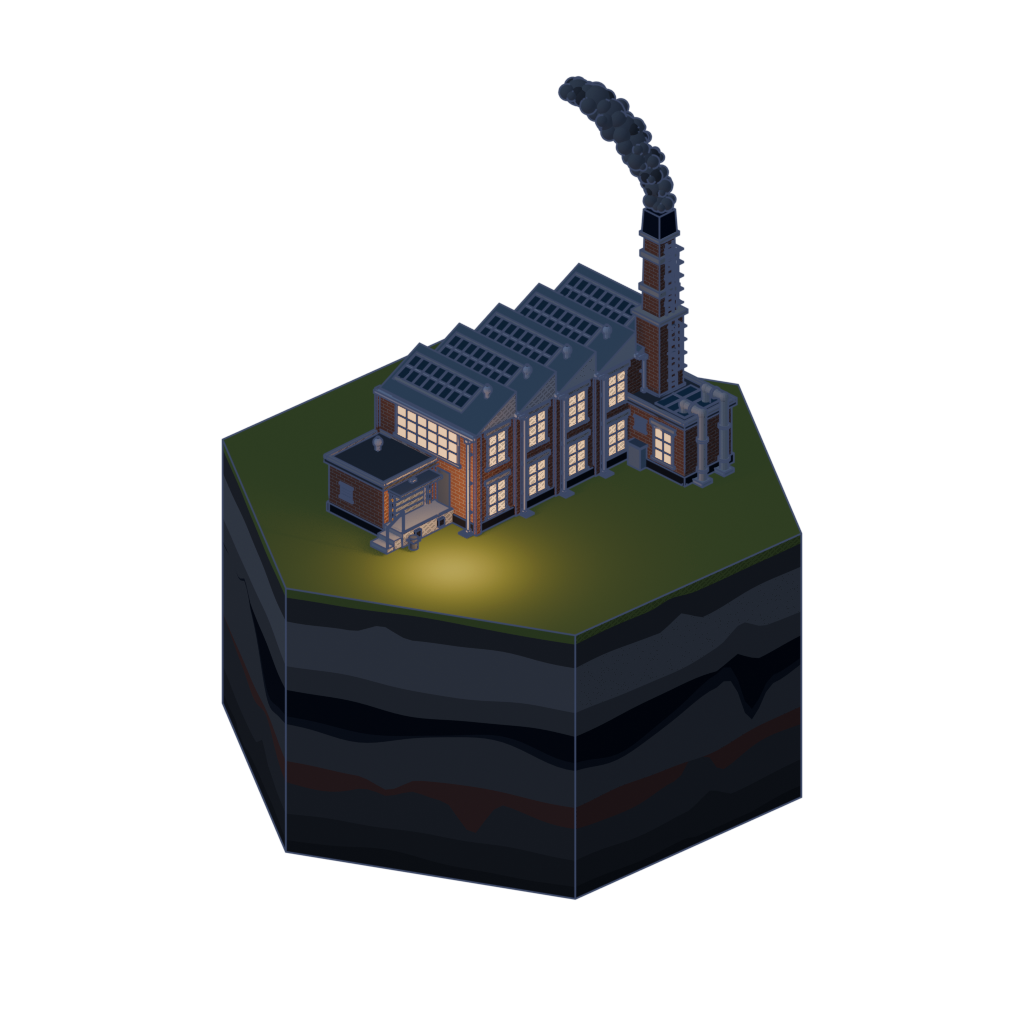
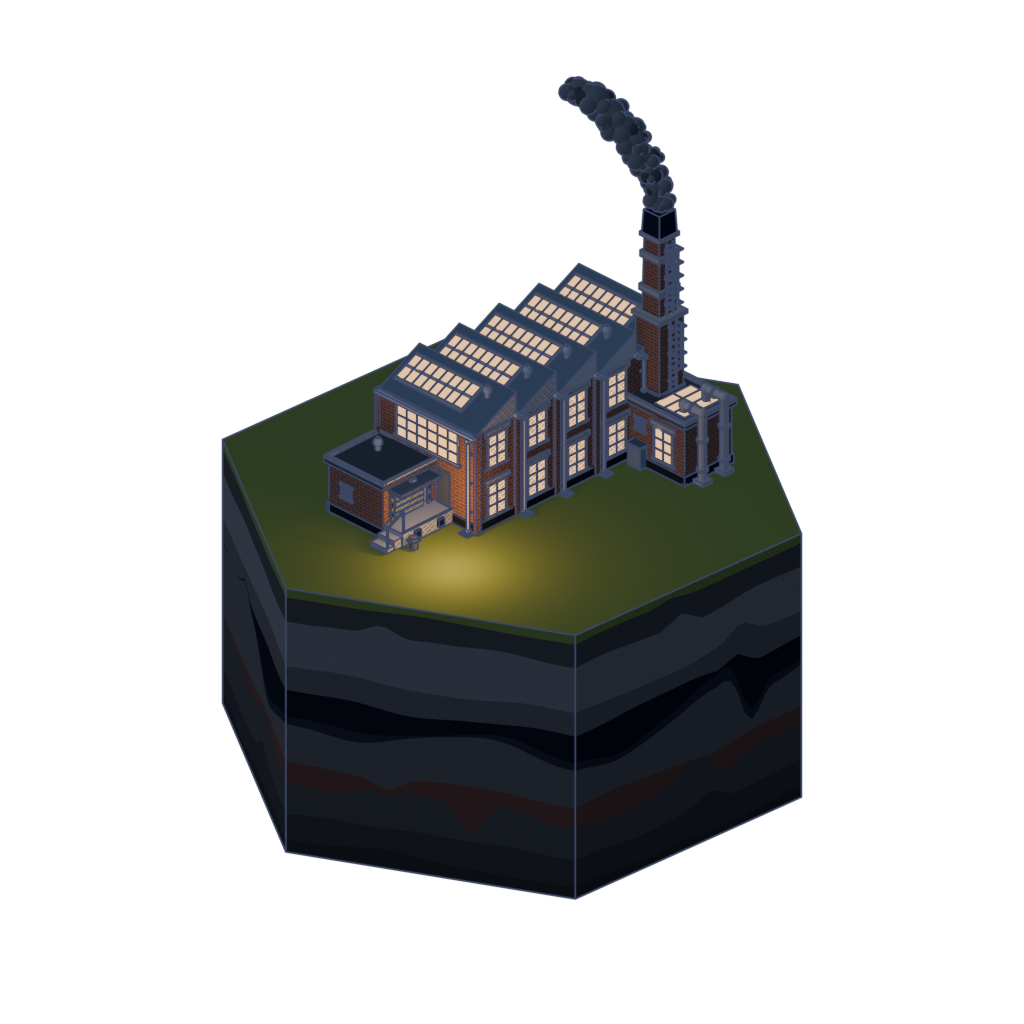
Light furnace heat and roof interiors in the loading carousel

Changed region(s): [[0.375, 0.25, 0.625, 0.4062], [0.625, 0.375, 0.6875, 0.4062]]

diff --git a/tools/loading_carousel/render_tiles.py b/tools/loading_carousel/render_tiles.py
@@ -170,8 +170,87 @@ bsdf.inputs['Base Color'].default_value = (*warm, 1)
 bsdf.inputs['Emission Color'].default_value = (*warm, 1)
 bsdf.inputs['Emission Strength'].default_value = 1.7
 bsdf.inputs['Roughness'].default_value = 1
-windows = [o for o in objects if o.name.endswith('_glass') and not o.name.startswith(('rannex', 'roof'))]
-# Existing panes light up; leave greenhouse and glass roofs transparent.
+windows = [o for o in objects if o.name.endswith('_glass') and not o.name.startswith('roof')]
+# Factory slope panes are named sky_0, sky_1, etc.; their cream mullions stay unlit.
+skylights = [o for o in objects if family == 'industrial_factory'
+             and o.name.startswith('sky_') and o.name[4:].isdigit()]
+windows += skylights
+night_materials = {o: window_mat for o in windows}
+hall_glazing = [o for o in objects if o.name in ('hall_glazing-1', 'hall_glazing1')]
+interior_lamps = []
+if hall_glazing:
+    # Keep the turbine roof see-through: light the machinery below it rather than
+    # covering the roof with the opaque material used by ordinary window panes.
+    glass = hall_glazing[0].data.materials[0].copy()
+    glass.name = 'LoadingLitTurbineGlass'
+    node = glass.node_tree.nodes.get('Principled BSDF')
+    node.inputs['Base Color'].default_value = (.52, .40, .24, 1)
+    node.inputs['Emission Color'].default_value = (*warm, 1)
+    node.inputs['Emission Strength'].default_value = .25
+    node.inputs['Alpha'].default_value = .16
+    for ob in hall_glazing:
+        night_materials[ob] = glass
+    for ob in objects:
+        if ob.name.startswith('turbine') and ob.name.endswith('_pedestal'):
+            bounds = [ob.matrix_world @ Vector(c) for c in ob.bound_box]
+            p = sum(bounds, Vector())/8
+            p.z = max(v.z for v in bounds) + .60*scale
+            lamp = point('Turbine hall work light', p, 70*scale*scale, (1, .72, .42))
+            lamp.data.shadow_soft_size = .20*scale
+            interior_lamps.append(lamp)
+    night_lamps += interior_lamps
+
+
+def heat_material(name, axes):
+    """A yellow hot centre fading through orange to a red edge on an existing opening."""
+    mat = bpy.data.materials.new(name)
+    mat.use_nodes = True
+    nodes, links = mat.node_tree.nodes, mat.node_tree.links
+    node = nodes.get('Principled BSDF')
+    tex = nodes.new('ShaderNodeTexCoord')
+    offset = nodes.new('ShaderNodeVectorMath')
+    offset.operation = 'SUBTRACT'
+    offset.inputs[1].default_value = (.5, .5, .5)
+    plane = nodes.new('ShaderNodeVectorMath')
+    plane.operation = 'MULTIPLY'
+    plane.inputs[1].default_value = axes
+    radius = nodes.new('ShaderNodeVectorMath')
+    radius.operation = 'LENGTH'
+    ramp = nodes.new('ShaderNodeValToRGB')
+    ramp.color_ramp.elements[0].color = (1, 1, .0005, 1)
+    ramp.color_ramp.elements[1].color = (.50, .0003, .00005, 1)
+    ramp.color_ramp.elements.new(.25).color = (1, 1, .0005, 1)
+    ramp.color_ramp.elements.new(.60).color = (1, .20, .0005, 1)
+    links.new(tex.outputs['Generated'], offset.inputs[0])
+    links.new(offset.outputs[0], plane.inputs[0])
+    links.new(plane.outputs[0], radius.inputs[0])
+    links.new(radius.outputs['Value'], ramp.inputs[0])
+    links.new(ramp.outputs['Color'], node.inputs['Base Color'])
+    links.new(ramp.outputs['Color'], node.inputs['Emission Color'])
+    node.inputs['Emission Strength'].default_value = 2.5
+    node.inputs['Roughness'].default_value = 1
+    return mat
+
+
+heat_sources = []
+if family == 'furnace':
+    bay_heat = heat_material('LoadingFurnaceHeat', (2, 0, 2))
+    molten = heat_material('LoadingMoltenLadle', (2, 2, 0))
+    for ob in objects:
+        bay = ob.name.endswith('_heat')
+        ladle = ob.name.startswith('ladle') and ob.name.endswith('_inside')
+        if not (bay or ladle):
+            continue
+        ob.data.materials.clear()
+        ob.data.materials.append(bay_heat if bay else molten)
+        bounds = [ob.matrix_world @ Vector(c) for c in ob.bound_box]
+        p = sum(bounds, Vector())/8
+        p += Vector((0, -.14*scale, .02*scale)) if bay else Vector((0, 0, .08*scale))
+        lamp = point('Furnace heat spill', p, (8 if bay else 4)*scale*scale, (1, .06, .002))
+        lamp.data.shadow_soft_size = .12*scale
+        # Heat remains present in daylight; its spill becomes clearer at night.
+        heat_sources.append(ob)
+
 if not sea:
     night_lamps.append(point('Yard light', (1.0,-2.1,.65), 65, warm))
 if sea:
@@ -197,7 +276,7 @@ else:
 
 for lamp in night_lamps:
     lamp.hide_render = True
-saved_mats = {o: list(o.data.materials) for o in windows}
+saved_mats = {o: list(o.data.materials) for o in night_materials}
 for look in ('day','night'):
     night = look == 'night'
     sun.data.color = (1.0,.78,.51) if not night else (.49,.61,1.0)
@@ -209,9 +288,9 @@ for look in ('day','night'):
     if beacon_col:
         for ob in beacon_col.objects:
             ob.hide_render = not night
-    for ob in windows:
+    for ob, lit_mat in night_materials.items():
         ob.data.materials.clear()
-        for mat in ([window_mat]*len(saved_mats[ob]) if night else saved_mats[ob]):
+        for mat in ([lit_mat]*len(saved_mats[ob]) if night else saved_mats[ob]):
             ob.data.materials.append(mat)
     path = args.out / f'{family}-{look}.png'
     scene.render.filepath = str(path)
@@ -252,4 +331,6 @@ model = ROOT / f'price-of-everything-0.1/assets/supply_chain_3d/{family}_lvl3.gl
 (args.out / f'{family}.json').write_text(json.dumps(dict(building=family, level=3,
     resolution=args.res, source_sha256=sources, model_sha256=hashlib.sha256(model.read_bytes()).hexdigest(),
     footprint_radius=reach*scale, hex_inradius=R*math.sqrt(3)/2,
-    ground_z=.012, windows=len(windows)), indent=2)+'\n')
+    ground_z=.012, windows=len(windows), skylights=len(skylights),
+    turbine_roof_panes=len(hall_glazing), interior_lamps=len(interior_lamps),
+    heat_sources=len(heat_sources)), indent=2)+'\n')

diff --git a/tools/loading_carousel/README.md b/tools/loading_carousel/README.md
@@ -13,7 +13,11 @@ old rectangular sea surface is replaced by the hex.
 
 The camera and geometry stay identical between looks. Warm light arrives from the upper
 left in daytime; a cool night fill leaves the buildings readable, with existing window
-panes lit, industrial heat/flare cues and small nacelle beacons. Smoke is pre-rendered.
+panes lit, industrial heat/flare cues and small nacelle beacons. The factory's sloped
+skylights and annex roof panes light up within their existing mullions. The power plant
+retains transparent roof glazing over warm work lights illuminating its turbine sets.
+The furnace's recessed working bays and molten ladles have yellow centres, orange/red
+edges and local light spill in both looks. Smoke is pre-rendered.
 The face-orientation print pass uses the same stipple method as the capsule and sprites.
 Brick materials also receive the game's catalogue coursing: 0.075m courses, 0.21m
 stretcher bond and 0.005m pale joints, in source model coordinates. That procedural paint
@@ -31,10 +35,11 @@ finished 1024px RGBA stills and `provenance.json` install in
 and output hashes. Rebuild after updating any featured building. Existing texture import
 sidecars retain desktop high-quality VRAM compression and mipmaps.
 
-`scripts/loading_carousel.gd` shows each building for five seconds: daylight to 1.35s,
-dissolve to night by 2.85s, hold until 4.3s, then slide left to reveal the next hex to the
-right. Six buildings make a 30-second loop. Current and next day/night pairs are the only
-resident textures. The next pair loads on a worker; a late read holds the current still.
+`scripts/loading_carousel.gd` shows each building for five seconds: daylight to 0.5s,
+dissolve over three seconds to night by 3.5s, hold until 4.3s, then slide left to reveal
+the next hex to the right. Six buildings make a 30-second loop. Current and next
+day/night pairs are the only resident textures. The next pair loads on a worker; a
+late read holds the current still.
 Static holds do not queue redraws. A live 3D viewport and video decoder are unnecessary.
 
 `loading_screen.gd` keeps script warming, threaded scene loading and readiness gating.
